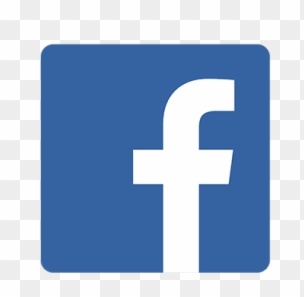
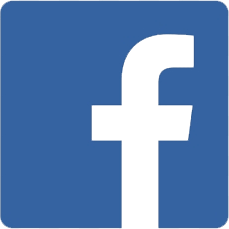
services page layout update

diff --git a/templates/base.html b/templates/base.html
@@ -63,24 +63,38 @@
         <h3 id="Hours">Hours of Operation</h3>
         <div class="salon-hours">
             <table>
-                <tr>
-                    <th>Monday:</th>
-                    <th>Tuesday:</th>
-                    <th>Wednesday:</th>
-                    <th>Thursday:</th>
-                    <th>Friday:</th>
-                    <th>Saturday:</th>
-                    <th>Sunday:</th>
-                </tr>
-                <tr>
-                    <td>Closed</td>
-                    <td>10:00am - 8:00pm</td>
-                    <td>10:00am - 8:00pm</td>
-                    <td>10:00am - 8:00pm</td>
-                    <td>10:00am - 8:00pm</td>
-                    <td>10:00am - 8:00pm</td>
-                    <td>Closed</td>
-                </tr>
+                <thead>
+                </thead>
+                <tbody>
+                    <tr>
+                        <td>Monday</td>
+                        <td>Closed</td>
+                    </tr>
+                    <tr>
+                        <td>Tuesday</td>
+                        <td>10:00am - 8:00pm</td>
+                    </tr>
+                    <tr>
+                        <td>Wednesday</td>
+                        <td>10:00am - 8:00pm</td>
+                    </tr>
+                    <tr>
+                        <td>Thursday</td>
+                        <td>10:00am - 8:00pm</td>
+                    </tr>
+                    <tr>
+                        <td>Friday</td>
+                        <td>10:00am - 8:00pm</td>
+                    </tr>
+                    <tr>
+                        <td>Saturday</td>
+                        <td>10:00am - 8:00pm</td>
+                    </tr>
+                    <tr>
+                        <td>Sunday</td>
+                        <td>Closed</td>
+                    </tr>
+                </tbody>
             </table>
         </div>
     </div>
@@ -143,17 +157,19 @@
 <!-- Footer End -->
 
 <!-- Social Start -->
-<div class="col-lg-2 col-md-3">
+<div class="col-lg-2 col-md-3 text-center"> <!-- Added 'text-center' class -->
     <div class="col-lg-3 col-md-4 offset-1">
-            <div class="social-icons footer_icon">
-                <ul>
-                    <li><a href="https://facebook.com/"><img src="https://i.ibb.co/TgH7824/facebook.png" alt="facebook" border="0" style="width:1em;height:auto;" class="fab fa-facebook-f" aria-hidden="true"></a></li>
-                    <li><a href="https://twitter.com/"><img src="https://i.ibb.co/T4zcFNP/Twitter-Logo.png" alt="Twitter-Logo" border="0" style="width:1em;height:auto;" class="fab fa-twitter" aria-hidden="true"></a></li>
-                    <li><a href="https://instagram.com/"><img src="https://i.ibb.co/bBcbqrv/Instagram-Logo.png" alt="Instagram-Logo" border="0" style="width:1em;height:auto;" class="fab fa-instagram" aria-hidden="true"></a></li>
-                </ul>
-            </div>
+        <div class="social-icons footer_icon">
+            <ul>
+                <div class="social">
+                    <li><a href="https://facebook.com/"><img src="https://i.ibb.co/7jDyzvm/facebook.png" alt="facebook" border="0" style="width:.8em;height:auto;" class="fab fa-instagram" aria-hidden="true"></a></li>
+                    <li><a href="https://ibb.co/c8v9RDM"><img src="https://i.ibb.co/JpdT850/instagram.png" alt="instagram" border="0" style="width:.8em;height:auto;" class="fab fa-twitter" aria-hidden="true"></a></li>
+                    <li><a href="https://ibb.co/wMLSNx9"><img src="https://i.ibb.co/0hXCjdg/twitter.png" alt="twitter" border="0" style="width:.8em;height:auto;" class="fab fa-instagram" aria-hidden="true"></a></li>
+                </div>
+            </ul>
         </div>
     </div>
+</div>
     <!-- Social End -->
 
     <!-- Js -->

diff --git a/static/style.css b/static/style.css
@@ -551,7 +551,7 @@
 .slider_info .sliderText{font-size: 16px; line-height: 20px;}
 .copyright-wrap .footer_links li{border-bottom: 1px solid #d0d0d0;}
 .copyright-wrap .footer_links li:first-child{border-top: none}
-.copyright-wrap .footer_links li:last-child{border-bottom: none}
+.copyright-wrap .footer_links li:laseet-child{border-bottom: none}
 }
 
 /* *********************************************************** */
@@ -593,9 +593,6 @@
 
 
 /* *********************************************************** */
-
-
-
 body { 
     background-repeat: no-repeat;
     background-image: url("https://i.ibb.co/cJyj9fh/slider.jpg");
@@ -618,7 +615,6 @@ body {
     align-items: center;
     position: relative;
 } */
-
 
 /* Welcome To */
 h1.large-title {
@@ -689,8 +685,11 @@ div.salon-hours {
 
 /* Hours of Operation Table */
 table, th, td {
-    border: 0;
+    border: 2px solid rgba(0, 0, 0, .5);
+    box-shadow: 2 8 3px rgba(0, 0, 0, .25);
     font-size: 1rem;
+    gap: 1em;
+    padding: 1em;
 }
 
 div:nth-child(1) > ul {
@@ -704,14 +703,6 @@ div.col-lg-12.col-md-4 > h3 {
     font-size: 3em 0 3em 0;
 }
 
-/* Social media links */
-body > div.col-lg-2.col-md-3 > div > div > ul {
-    display:flex;
-    justify-content: center;
-    align-items: center;
-    position: relative;
-    flex-direction: row;
-}
 
 div:nth-child(2) > a > img {
     display: flex;
@@ -760,7 +751,6 @@ h1 {
     font-size: 38px;
 }
 
-
 /* Our Services  */
 div.service-wrap {
     margin: 3rem 0;
@@ -769,13 +759,13 @@ div.service-wrap {
 div.title {
     margin: 1em 1em -5em 1em;
 }
+
 /* Contact Information heading */
 div > div.col-lg-5 > div > div > h1 {
     gap: 4em;
     margin: 0 1em 3em 1em;
     padding: 0 0 .5em 0;
 }
-
 
 div > div.col-lg-6 > div > div.title > h3 {
     margin: 0 4em 4em 2em;
@@ -787,8 +777,26 @@ div > div.col-lg-6 > div > div.title > h3 {
     margin: .5em 0 5em 0;
 }
 
-
 #services {
     margin-bottom: 40%;
     padding-bottom: 15em;
+}
+
+/* Social media links */
+body > div.col-lg-2.col-md-3 > div > div > ul {
+    display:flex;
+    justify-content: center;
+    align-items: center;
+    position: relative;
+    flex-direction: row;
+}
+
+/* Social Media Links */
+.social {
+    gap: .5em;
+    display: flex;
+    align-items: center;
+    justify-content: center;
+    flex-direction: row;
+    margin-left: 1em;
 }
